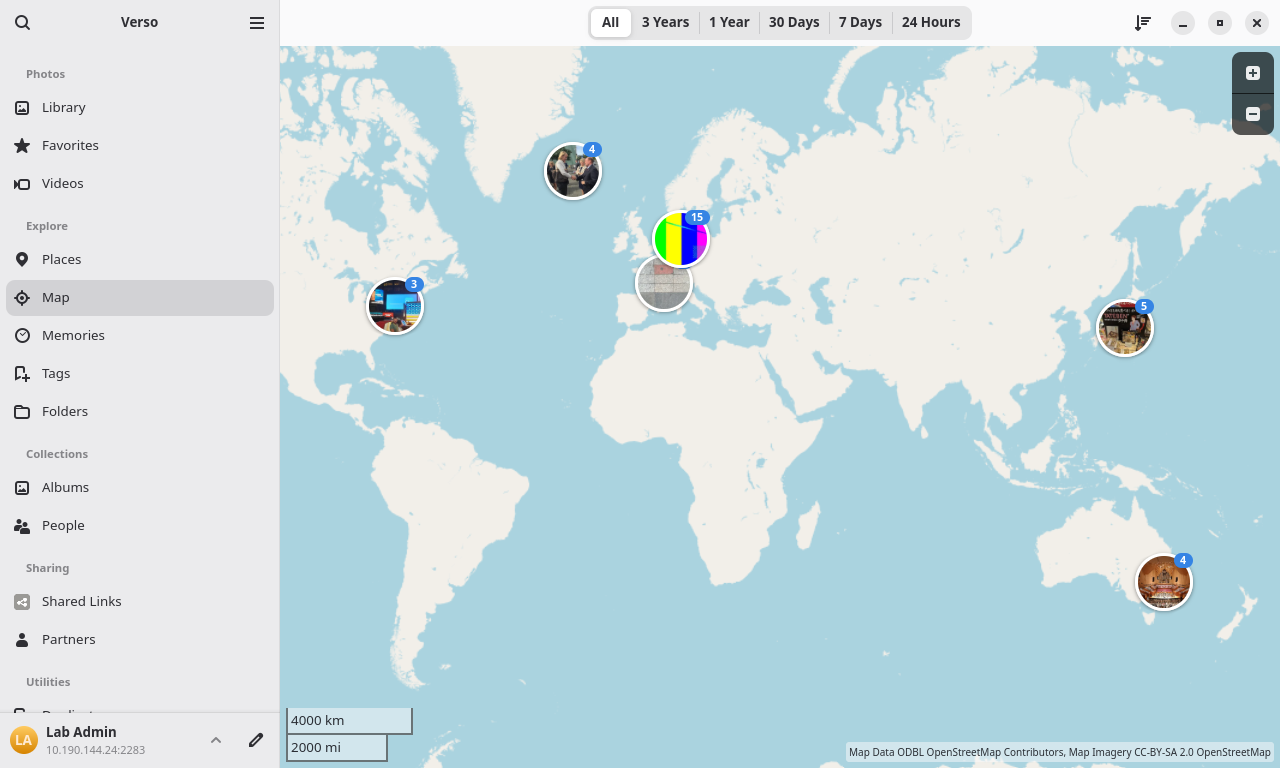
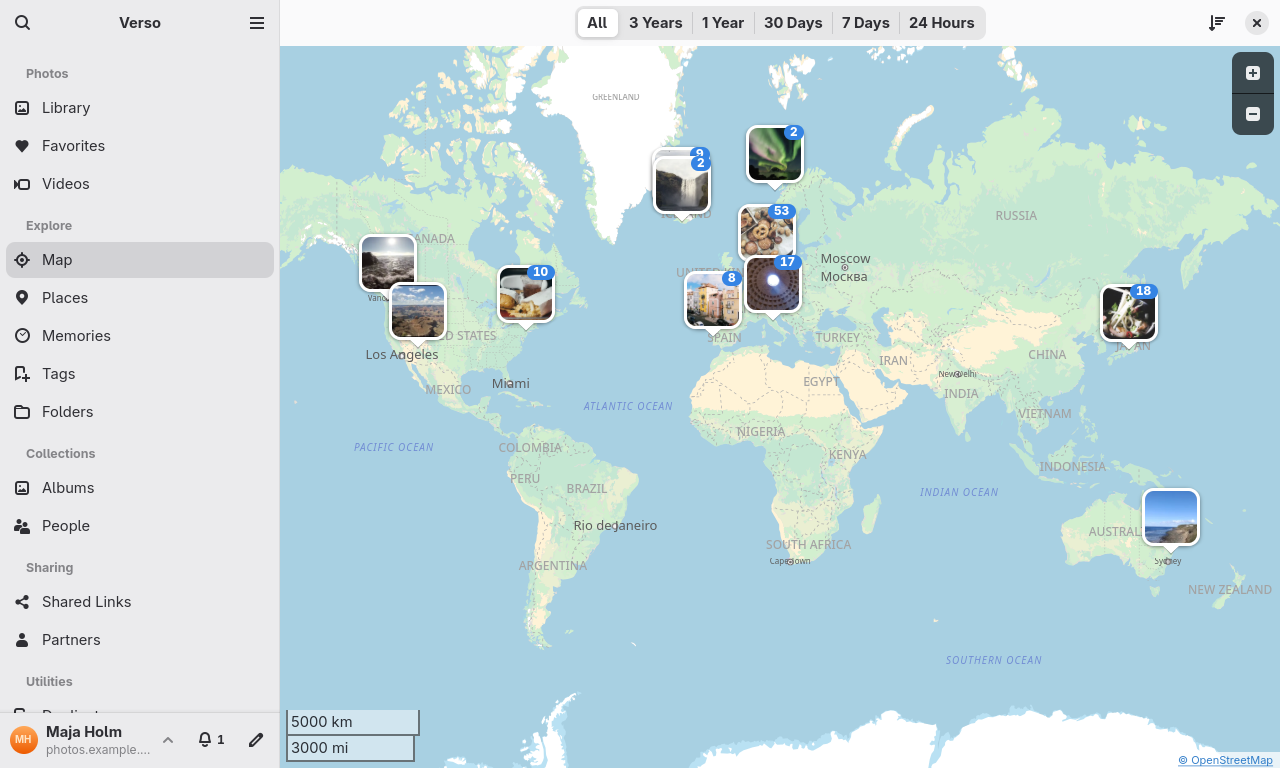
docs: the README's map is retaken with the map Verso draws now on Linux, Immich's own style, on the showcase server's library
The map changed with c3e859f (the Immich server's map setting, its style and credits), so the README's picture
showed the old OpenStreetMap tiles. Retaken at the same size (1280 by 768, the window under the top bar) in a GNOME 50
VM on Erebus (ind-gnome-site) with the release-style tarball built from c3e859f (Verso 0.73.0), signed in with an
API key to a showcase server of this run's own (ind-immich-site, seeded by showcase.sh), reached as
http://photos.example.com so no lab address shows. The README's credits name the showcase's attribution beside the
test server's, as the map's photos are the showcase's.

diff --git a/README.md b/README.md
@@ -166,8 +166,9 @@ welcome in this repository's [issues](../../issues).
   library as a drive in Finder, and its API layer started from **[immich-rs](https://github.com/boul2gom/immich-rs)**
   (MIT).
 - **[Immich](https://github.com/immich-app/immich)**, the server all of this talks to.
-- The photos in the screenshots are the test server's, Creative Commons and public domain photos from Wikimedia
-  Commons, each credited in [lab/immich-server/fixtures/ATTRIBUTION.md](lab/immich-server/fixtures/ATTRIBUTION.md).
+- The photos in the screenshots are the lab servers', Creative Commons and public domain photos from Wikimedia
+  Commons, each credited in [lab/immich-server/fixtures/ATTRIBUTION.md](lab/immich-server/fixtures/ATTRIBUTION.md),
+  and the map's in [lab/immich-server/fixtures/showcase/ATTRIBUTION.md](lab/immich-server/fixtures/showcase/ATTRIBUTION.md).
   Map data and imagery are OpenStreetMap's, as credited on the map.
 
 More: [CREDITS.md](CREDITS.md).
